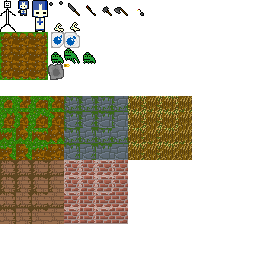
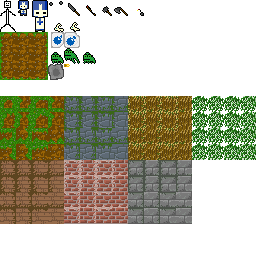
Added rendering of foreground tiles

Changed region(s): [[0.75, 0.375, 1.0, 0.625], [0.5, 0.625, 0.75, 0.875]]

diff --git a/Fifth/CEntityManager.cpp b/Fifth/CEntityManager.cpp
@@ -186,9 +186,13 @@ void CEntityManager::onRender(CWindow* window, CCamera* camera) {
         }
     }
     
+    std::vector<CTile*> foreground;
     for (auto &tileRow: _tiles) {
         for(auto &tile: tileRow.second) {
-            tile.second->onRender(window, camera, (RenderFlags)renderFlags);
+            if(tile.second->hasProperty(EntityProperty::COLLIDABLE))
+                tile.second->onRender(window, camera, (RenderFlags)renderFlags);
+            else
+                foreground.push_back(tile.second);
         }
     }
     
@@ -205,6 +209,9 @@ void CEntityManager::onRender(CWindow* window, CCamera* camera) {
     for (auto &i: _particles)
         if(!i->toRemove)
             i->renderAdditional(window, camera, (RenderFlags)renderFlags);
+    
+    for(auto& i: foreground)
+        i->onRender(window, camera, (RenderFlags)renderFlags);
     
     for (auto &i: _deadEntities)
         if(!i.second->toRemove)
@@ -357,7 +364,8 @@ void CEntityManager::onLoop(CInstance* instance) {
             for(auto &tile: tileRow.second) {
                 auto target = tile.second;
                 
-                _CollisionVector[target->posY][target->posX].push_back(target); // TILECOL
+                if(target->hasProperty(EntityProperty::COLLIDABLE))
+                    _CollisionVector[target->posY][target->posX].push_back(target); // TILECOL
                 
 //                for(auto &coords: getGrid(target, _gridSize)) {
 //                    _CollisionVector[coords.y][coords.x].push_back(target);

diff --git a/Fifth/NFile.cpp b/Fifth/NFile.cpp
@@ -171,6 +171,12 @@ void NFile::loadSprites(rapidjson::Document* d) {
             for(int sprite = 0; sprite < 16; sprite++) {
                 set->spriteKeys[sprite] = name + std::to_string(sprite);
             }
+            
+            bool collide = true;
+            if(sprite.HasMember("collide"))
+                collide = sprite["collide"].GetBool();
+            set->collide = collide;
+            
             CAssetManager::addTileset(name, set);
         } else if(sprite.HasMember("animation")) {
             const rapidjson::Value& animationValue = sprite["animation"];

diff --git a/Fifth/CTile.cpp b/Fifth/CTile.cpp
@@ -22,6 +22,8 @@ CTile::CTile(std::string tileset, int posX, int posY)
     , tileIndex(0)
 {
     addProperty(EntityProperty::STATIC);
+    if(!this->tileset->collide)
+        removeProperty(EntityProperty::COLLIDABLE);
 }
 
 void CTile::onRender(CWindow* window, CCamera* camera, RenderFlags renderFlags) {

diff --git a/Fifth/CTile.h b/Fifth/CTile.h
@@ -22,6 +22,7 @@ class CCamera;
 
 struct Tileset {
     std::string spriteKeys[16];
+    bool collide;
     
     std::string operator[](int i) {
         if(i <= 15 && i >= 0)
